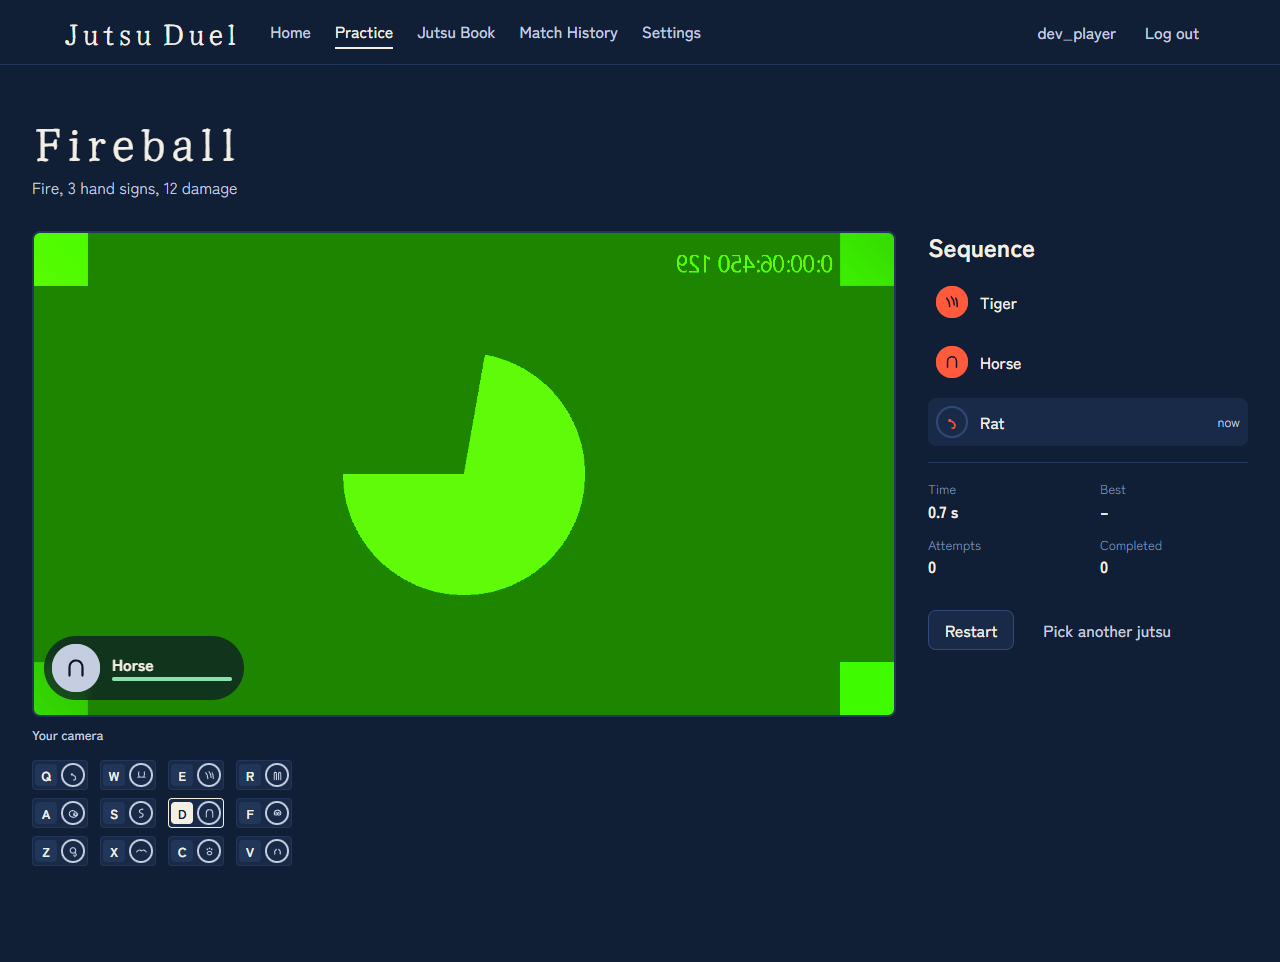
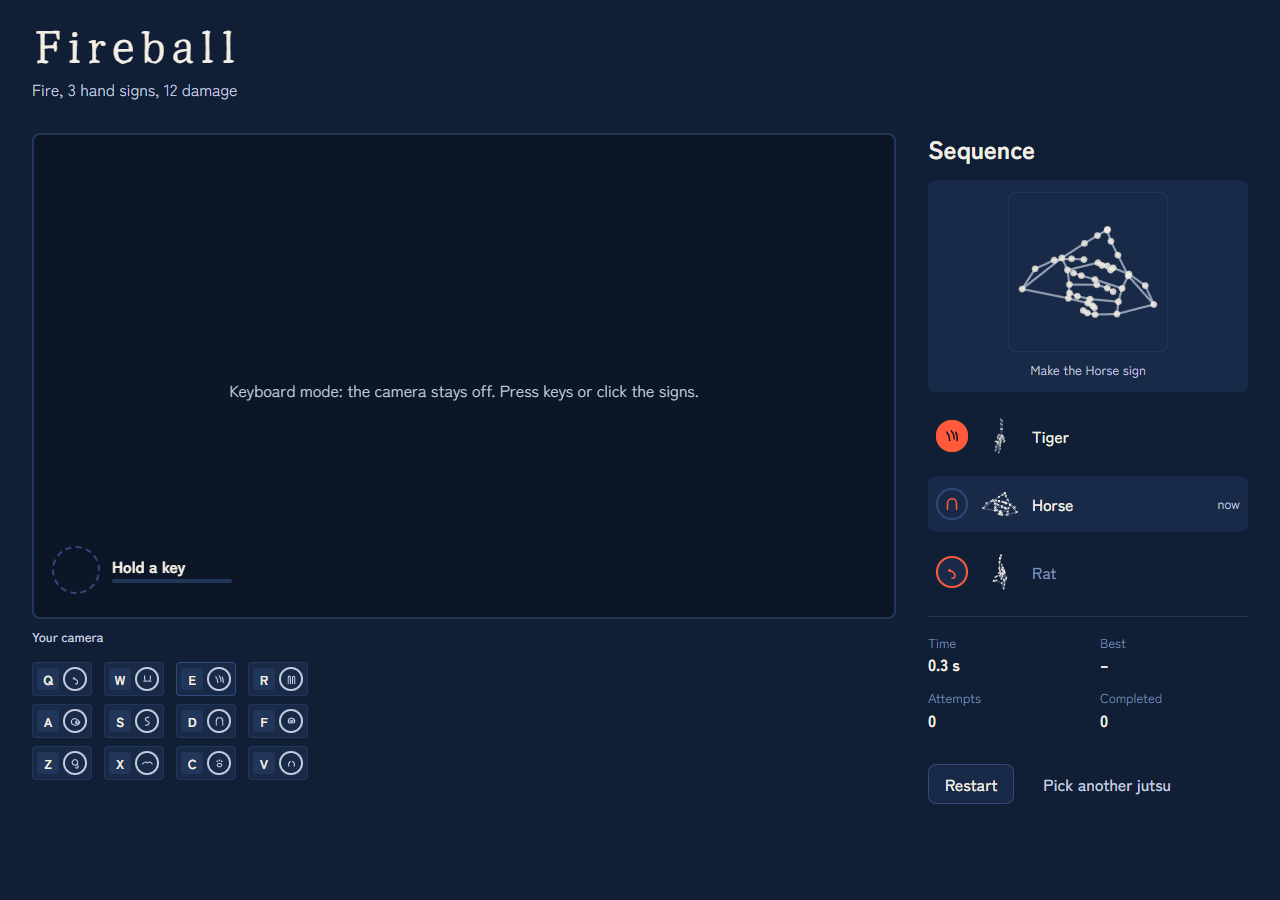
docs(progress): log the sign figures and the re-recording workflow

diff --git a/CHANGELOG.md b/CHANGELOG.md
@@ -21,16 +21,30 @@ All notable changes to this project are documented here. The format follows
 - `npm run model:check`: runs the shipped model over the recordings in `ml/data/raw/` with the
   browser's inference code and prints accuracy per sign; the structural checks on the model
   file run with every `npm test`.
+- Hand-sign figures: every sign now shows how to form it as a recorded hand skeleton, drawn
+  mirrored to match the camera preview. They appear in the Jutsu Book (sequence steps and the
+  sign cards), on the Practice page (a large figure of the sign to make next, a small one per
+  step, and a grid of all twelve in free practice) and on the key map of the pre-battle page.
+  `src/content/sign-references.json` holds the twelve references extracted from the owner's
+  recording.
+- `uv run references`: picks the most typical frame per sign from recordings (the medoid in
+  feature space) and writes the references file. `uv run prune --drop <sign>` removes a sign
+  from a recording so it can be re-recorded.
 
 ### Changed
 
 - Keyboard mode no longer asks for the camera on the battle and practice pages; the self
   panel says so and the sign pad takes its place.
+- The trainer falls back to a random split, and says so, when the recording sessions do not
+  each hold every sign (a re-recording of one sign), instead of holding that sign out of
+  training.
 
 ### Fixed
 
 - The Vite dev watcher ignores `ml/`, `supabase/` and `.claude/`, which stops EBUSY errors
   while the trainer reads a recording.
+- The camera picker in Settings no longer lists the unnamed devices browsers report before
+  camera permission is granted, which rendered duplicate entries with empty ids.
 
 ## [0.6.0] - 2026-11-11
 

diff --git a/docs/PROGRESS.md b/docs/PROGRESS.md
@@ -1,6 +1,6 @@
 # Progress and roadmap
 
-Last updated: 2026-11-15. Branch: `docs/github-remote`.
+Last updated: 2026-11-15. Branch: `feat/sign-figures`.
 
 This is the living status page for Jutsu Duel. It answers three questions: where the project
 is, what changed recently, and what comes next. Release notes by version live in
@@ -85,6 +85,16 @@ it matters.
 
 ### 2026-11-15
 
+- `feat/sign-figures`: Players can now see how to form each sign. A `SignFigure` draws the
+  recorded hand skeleton for a sign (mirrored to match the preview, falling back to the glyph)
+  and appears in the Jutsu Book sequences and cards, on the Practice page (a large figure of
+  the next sign, small ones per step, all twelve in free practice) and on the pre-battle key
+  map. The references come from the owner's recording through a new `uv run references`
+  command that picks the medoid frame per sign; `uv run prune --drop <sign>` removes a badly
+  recorded sign so it can be re-recorded, and the trainer now falls back to a random split
+  with a warning when a session holds only some signs, instead of training without them.
+  Verified in headless Chrome: twelve labelled figures in the Jutsu Book, the practice guide
+  reads "Make the Horse sign" after Tiger, no console errors.
 - `docs/github-remote`: The repository now lives at
   https://github.com/WumbleCat/naruto-handsigns-battle (public). `main`, the six milestone
   tags and every feature branch were pushed. From here on, branches are merged through pull

diff --git a/README.md b/README.md
@@ -93,6 +93,12 @@ recordings takes a few minutes:
    the same from Python).
 4. Reload the app. The pre-battle camera check now asks you to hold the Ram sign; once it
    registers, "Start battle" unlocks.
+5. Optional: `uv run references --data data/raw/*.json --out ../src/content/sign-references.json`
+   refreshes the hand-sign figures (the skeleton drawn for each sign in the Jutsu Book, on the
+   Practice page and on the key map) from your own recordings.
+
+To re-record one sign, drop it from the old recording first: `uv run prune --data <file>
+--drop ram`, then record, train and refresh the references as above.
 
 Details, options and the evaluation command are in [`ml/README.md`](ml/README.md). The recorder
 also shows the live prediction of the installed model, so a new model can be judged by eye.
